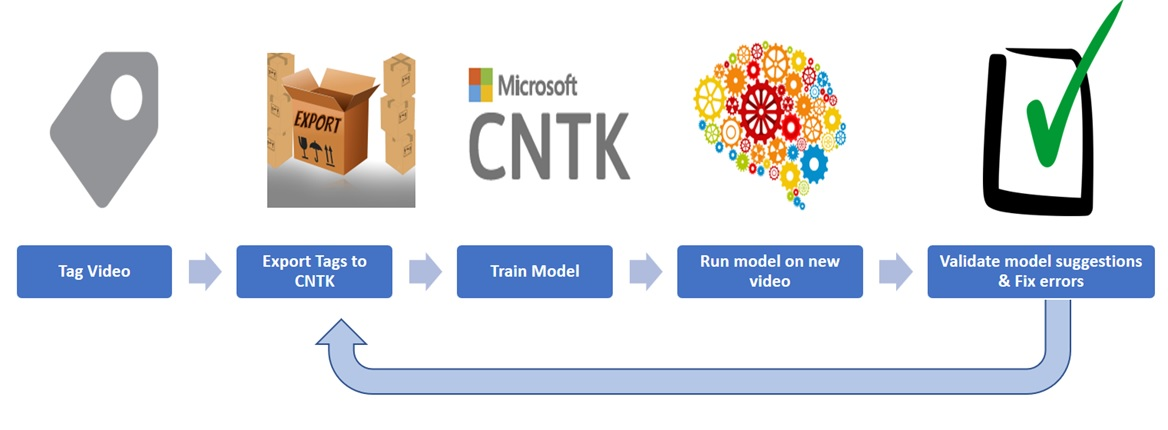
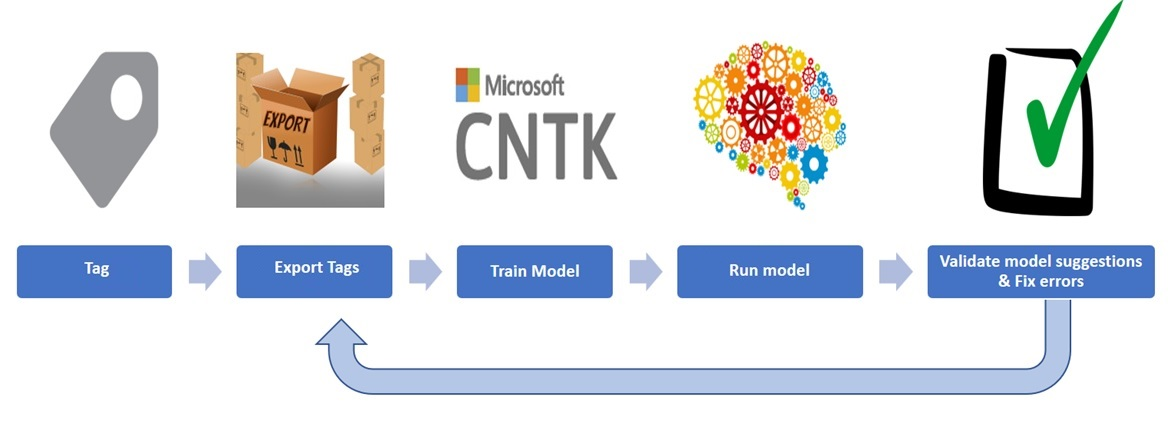
updated documentation

diff --git a/src/index.html b/src/index.html
@@ -67,12 +67,12 @@
       </div>
 
       <div class="form-group" id="suggestGroup">
-        <label title="Suggested Region Method">Suggested Region Method</label>
-        <select id="suggestiontype" class="form-control" id="text" onchange="checkPointRegion();" style ="max-width: 8em">
-              <option selected="selected" value = "track">Tracking</option>
-              <option  value = "copy">Copy Last Frame</option>
-        </select>
-        <input type="checkbox" id="scd" > Enable Scene Change Detection<br>
+        <label id="methodLabel" title="Suggested Region Method" >Suggested Region Method</label>
+          <select id="suggestiontype" class="form-control" id="text" onchange="checkPointRegion();" style ="max-width: 8em">
+                <option selected="selected" value = "track">Tracking</option>
+                <option  value = "copy">Copy Last Frame</option>
+          </select>
+          <input type="checkbox" id="scd" title="Scene Change Detection"> Enable SCD</input>
       </div>
       <div class="form-group">
         <label for="Tags"> Labels<div id="required">*</div> (Comma Seperated)</label>

diff --git a/src/public/css/styles.css b/src/public/css/styles.css
@@ -135,3 +135,15 @@ label {
   border: 0px;
   border-radius: 5px;
 }
+
+#methodLabel{
+    display: block !important;
+}
+
+#suggestiontype{
+    display: inline-block;
+}
+
+#scd{
+    margin-left: 10px;
+}

diff --git a/README.md b/README.md
@@ -1,6 +1,6 @@
 # VOTT: Visual Object Tagging Tool
 
-This tool provides end to end support for generating datasets and validating object detection models.
+This tool provides end to end support for generating datasets and validating object detection models from video and image assets.
 
 ### End to End Object Detection Pipeline:
 ![Pipeline: tag video, export tags to CNTK, train model, run model on a new video, validate model suggestions and fix errors, return to export tags](media/detectioninabox.jpg)
@@ -15,6 +15,7 @@ The tool supports the following **features**:
 
  - [Installation](#installation)
  - [Tagging a Video](#tagging-a-video)
+ - [Tagging an Image Directory](#tagging-a-video)
  - [Reviewing and Improving a CNTK Object Detection Model](#reviewing-and-improving-a-cntk-object-detection-model)
  - [Upcoming Features](#upcoming-features)
  - [How to Contribute](#how-to-contribute)
@@ -45,11 +46,15 @@ The tool supports the following **features**:
 ```
 ## Tagging a Video
 
- 1. Load an MP4 video file either by dragging it into the app or clicking on and selecting it.
+ 1. Select the option to tag a video
+
+    ![](media/video-option.jpg)
+
+ 2. Load an MP4 video file either by dragging it into the app or clicking on and selecting it.
 
     ![](media/2_load.jpg)
 
- 2. Configure the tagging job and specify the settings in the screenshot below:
+ 3. Configure the tagging job and specify the settings in the screenshot below:
 
     ![](media/3_Job_Configuration.jpg)
 
@@ -59,9 +64,15 @@ The tool supports the following **features**:
       - *Rectangle*: tag bounding boxes of any dimension
       - *Square*: tag bounding boxes of auto-fixed dimensions
 
+    **Suggested Region Method**: how to suggest regions for next frame<br>
+     - *Tracking*: Use camshift to track tagged regions in next frame
+     - *Copy Last Frame*: Copy all regions to the next frame.
+
+    **Enable Scene Change Detection**: Detect scene changes to prevent false positives when tracking. (Note this option is slightly slower)
+
     **Labels**: labels of the tagged regions (e.g. `Cat`, `Dog`, `Horse`, `Person`)<br>
 
- 3. Tag the video frame by frame
+ 4. Tag the video frame by frame
  
     ![](media/4_Tagging_Job.jpg)
 
@@ -77,7 +88,60 @@ The tool supports the following **features**:
      - Since the [camshift algorithm](http://opencv.jp/opencv-1.0.0_org/docs/papers/camshift.pdf) has some known limitations, you can disable tracking for certain sets of frames. To toggle tracking *on* and *off* use the file menu setting, or the keyboard shortcut Ctrl/Cmd + T.
 
 
- 4. Export video Tags using the Object Detection Menu or Ctrl/Cmd + E
+ 5. Export video Tags using the Object Detection Menu or Ctrl/Cmd + E
+
+    ![]( media/5_Export.jpg)
+    
+    *Note on exporting: the tool reserves a random 20% sample of the tagged frames as a test set.*
+ 
+    Specify the following export configuration settings:
+    
+    ![]( media/5a_Export.jpg)
+    
+    - **Export Format**: What framework to export to defaults to *CNTK*<br>
+    - **Export Frames Until**: how far into the video the export operation will proceed<br>
+      - *Last Tagged Region*: exports frames up until the last frame containing tags
+      - *Last Visited Frame*: exports frames up until the last frame that the user explicitly visited
+      - *Last Frame*: exports all video frames<br>
+    - **Output directory**: directory path for exporting training data<br>
+    
+---
+
+## Tagging an Image Directory
+
+ 1. Select the option to tag an image directory
+
+    ![](media/image-option.jpg)
+
+ 2. Load an image directory by selecting it.
+
+    ![](media/2_load.jpg)
+
+ 3. Configure the tagging job and specify the settings in the screenshot below:
+
+    ![](media/3_Job_Configuration.jpg)
+
+    **Frame Extraction Rate**: number of frames to tag per second of video<br>
+
+    **Tagging Region Type**:  type of bounding box for tagging regions<br>
+      - *Rectangle*: tag bounding boxes of any dimension
+      - *Square*: tag bounding boxes of auto-fixed dimensions
+
+    **Labels**: labels of the tagged regions (e.g. `Cat`, `Dog`, `Horse`, `Person`)<br>
+
+ 4. Tag each image
+ 
+    ![](media/4_Tagging_Job.jpg)
+
+    **Tagging**: click and drag a bounding box around the desired area, then move or resize the region until it fits the object
+     - Selected regions appear as red ![red](https://placehold.it/15/f03c15/000000?text=+) and unselected regions will appear as blue ![#1589F0](https://placehold.it/15/1589F0/000000?text=+).
+     - Assign a tag to a region by clicking on it and selecting the desired tag from the labeling toolbar at the bottom of the tagging control
+     - Click the ![cleartags](media/cleartags.png) button to clear all tags on a given frame
+
+    **Navigation**: users can navigate between video frames by using the ![prev-nxt](media/prev-next.png) buttons, the left/right arrow keys, or the video skip bar
+     - Tags are auto-saved each time a frame is changed
+
+ 5. Export image directory tags Tags using the Object Detection Menu or Ctrl/Cmd + E
 
     ![]( media/5_Export.jpg)
     
@@ -112,7 +176,6 @@ In the latest release we provide support for [Export and Review formats](https:/
 
 ## Upcoming Features 
 
-- Image directory tagging support
 - Tagging project management
 
 -----------
